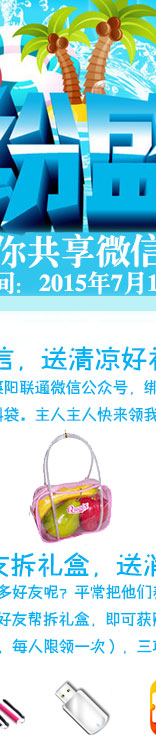
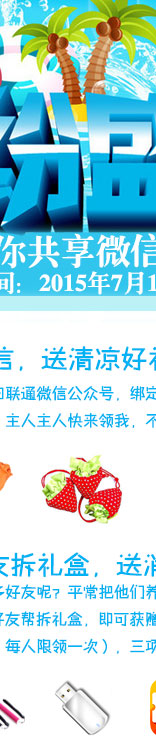
a

Changed region(s): [[0.0, 0.4973, 1.0, 0.7459], [0.0, 0.777, 1.0, 0.9014], [0.0, 0.6216, 0.0769, 0.6838]]

diff --git a/views/wapx/qingliangyixia.php b/views/wapx/qingliangyixia.php
@@ -1,3 +1,9 @@
+<?php
+	use yii\helpers\Html;
+    use yii\helpers\Url;
+
+    use app\models\U;
+?>
 <html>
 <head>
 <title>缤纷盛夏活动</title>
@@ -21,47 +27,67 @@
 <table id="__01" width="100%" height="1136" border="0" cellpadding="0" cellspacing="0">
 	<tr>
 		<td>
-			<img src="\wx\web\images\qingliangyixia\qingliangyixia_01.jpg?v5"  alt=""></td>
+			<img src="\wx\web\images\qingliangyixia\qingliangyixia_01.jpg?v8"  alt=""></td>
+		<td><a href="javascript:alert('确认已关注!')">
+			<img src="\wx\web\images\qingliangyixia\qingliangyixia_02.jpg?v8"  alt=""></a></td>
 		<td>
-			<img src="\wx\web\images\qingliangyixia\qingliangyixia_02.jpg?v5"  alt=""></td>
-		<td>
-			<img src="\wx\web\images\qingliangyixia\qingliangyixia_03.jpg?v5"  alt=""></td>
+			<img src="\wx\web\images\qingliangyixia\qingliangyixia_03.jpg?v8"  alt=""></td>
 	</tr>
 	<tr>
 		<td>
-			<img src="\wx\web\images\qingliangyixia\qingliangyixia_04.jpg?v5"  alt=""></td>
+			<img src="\wx\web\images\qingliangyixia\qingliangyixia_04.jpg?v8"  alt=""></td>
 		<td>
-			<a href="javascript:alert('抢个礼盒!')">
-			<img src="\wx\web\images\qingliangyixia\qingliangyixia_05.jpg?v5"  alt=""></a></td>
+		
+			<a href="https://open.weixin.qq.com/connect/oauth2/authorize?appid=wx1b122a21f985ea18&redirect_uri=http%3A%2F%2Fwosotech.com%2Fwx%2Fweb%2Findex.php%3Fr%3Dwap%2Foauth2cb&response_type=code&scope=snsapi_base&state=wapx/yaoyiyao:gh_03a74ac96138#wechat_redirect">
+		
+			<!--
+			<a href="javascript:chailihe();">
+			-->
+			<img src="\wx\web\images\qingliangyixia\qingliangyixia_05.jpg?v8"  alt="">
+			</a>
+		</td>
+
 		<td>
-			<img src="\wx\web\images\qingliangyixia\qingliangyixia_06.jpg?v5"  alt=""></td>
+			<img src="\wx\web\images\qingliangyixia\qingliangyixia_06.jpg?v8"  alt=""></td>
 	</tr>
 	<tr>
 		<td>
-			<img src="\wx\web\images\qingliangyixia\qingliangyixia_07.jpg?v5"  alt=""></td>
+			<img src="\wx\web\images\qingliangyixia\qingliangyixia_07.jpg?v8"  alt=""></td>
 		<td>
-			<img src="\wx\web\images\qingliangyixia\qingliangyixia_08.jpg?v5"  alt=""></td>
+			<img src="\wx\web\images\qingliangyixia\qingliangyixia_08.jpg?v8"  alt=""></td>
 		<td>
-			<img src="\wx\web\images\qingliangyixia\qingliangyixia_09.jpg?v5"  alt=""></td>
+			<img src="\wx\web\images\qingliangyixia\qingliangyixia_09.jpg?v8"  alt=""></td>
 	</tr>
 	<tr>
 		<td>
-			<img src="\wx\web\images\qingliangyixia\qingliangyixia_10.jpg?v5"  alt=""></td>
+			<img src="\wx\web\images\qingliangyixia\qingliangyixia_10.jpg?v8"  alt=""></td>
 		<td>
-			<a href="javascript:alert('去抽奖!')">
-			<img src="\wx\web\images\qingliangyixia\qingliangyixia_11.jpg?v5" alt=""></a></td>
+			<a href="javascript:alert('月底才有抽奖机会哟!')">
+			<img src="\wx\web\images\qingliangyixia\qingliangyixia_11.jpg?v8" alt=""></a></td>
 		<td>
-			<img src="\wx\web\images\qingliangyixia\qingliangyixia_12.jpg?v5"  alt=""></td>
+			<img src="\wx\web\images\qingliangyixia\qingliangyixia_12.jpg?v8"  alt=""></td>
 	</tr>
 	<tr>
 		<td>
-			<img src="\wx\web\images\qingliangyixia\qingliangyixia_13.jpg?v5"  alt=""></td>
+			<img src="\wx\web\images\qingliangyixia\qingliangyixia_13.jpg?v8"  alt=""></td>
 		<td>
-			<img src="\wx\web\images\qingliangyixia\qingliangyixia_14.jpg?v5"  alt=""></td>
+			<img src="\wx\web\images\qingliangyixia\qingliangyixia_14.jpg?v8"  alt=""></td>
 		<td>
-			<img src="\wx\web\images\qingliangyixia\qingliangyixia_15.jpg?v5"  alt=""></td>
+			<img src="\wx\web\images\qingliangyixia\qingliangyixia_15.jpg?v8"  alt=""></td>
 	</tr>
 </table>
 <!-- End Save for Web Slices -->
+
+
+<script type="text/javascript">
+	function chailihe()
+	{
+		alert('chailihe');
+
+		url ='https://open.weixin.qq.com/connect/oauth2/authorize?appid=wx1b122a21f985ea18&redirect_uri=http%3A%2F%2Fwosotech.com%2Fwx%2Fweb%2Findex.php%3Fr%3Dwap%2Foauth2cb&response_type=code&scope=snsapi_base&state=wapx/yaoyiyao:gh_03a74ac96138#wechat_redirect';
+
+		location.href=url;
+	}
+</script>
 </body>
 </html>

diff --git a/controllers/WapxController.php b/controllers/WapxController.php
@@ -295,11 +295,17 @@ class WapxController extends Controller {
 
     //http://wosotech.com/wx/web/index.php?r=wapx/qingliangyixia&gh_id=gh_03a74ac96138
     public function actionQingliangyixia() {
-        $this->layout = false;
- 
-        return $this->render('qingliangyixia');
-    }
+        $this->layout = 'wapy';
+        $gh_id = U::getSessionParam('gh_id');
+        $openid = U::getSessionParam('openid');
+        //$model = MUser::findOne(['gh_id' => $gh_id, 'openid' => $openid]);
+        //if (empty($model->openidBindMobiles)) {
+        //    Yii::$app->getSession()->set('RETURN_URL', Url::to());
+        //    return $this->redirect(['addbindmobile', 'gh_id' => $gh_id, 'openid' => $openid]);
+        //}
 
+        return $this->render('qingliangyixia', ['gh_id' => $gh_id, 'openid' => $openid]);
+    }
 
 
 
